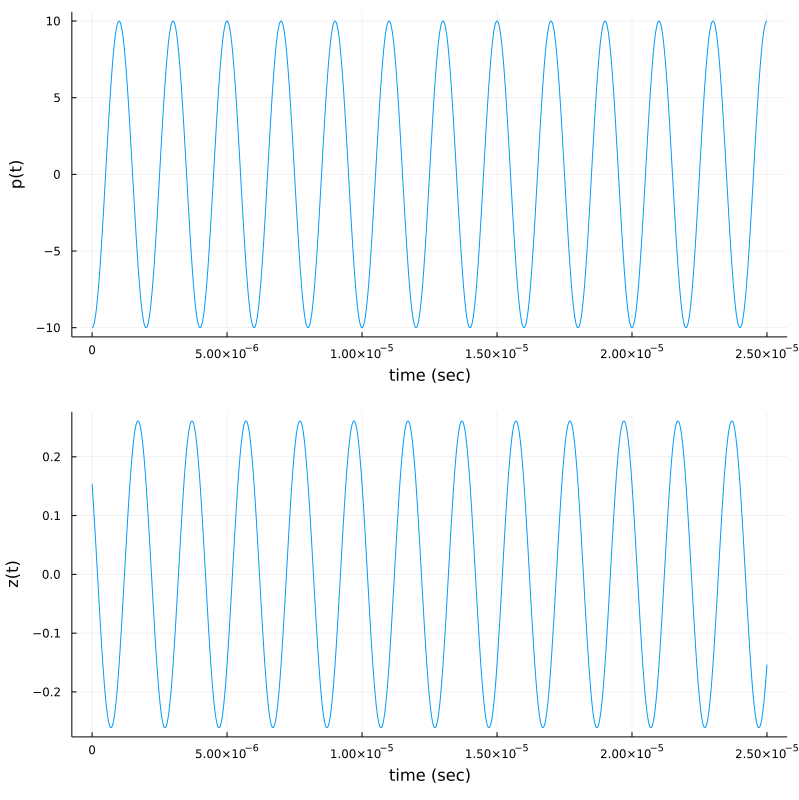
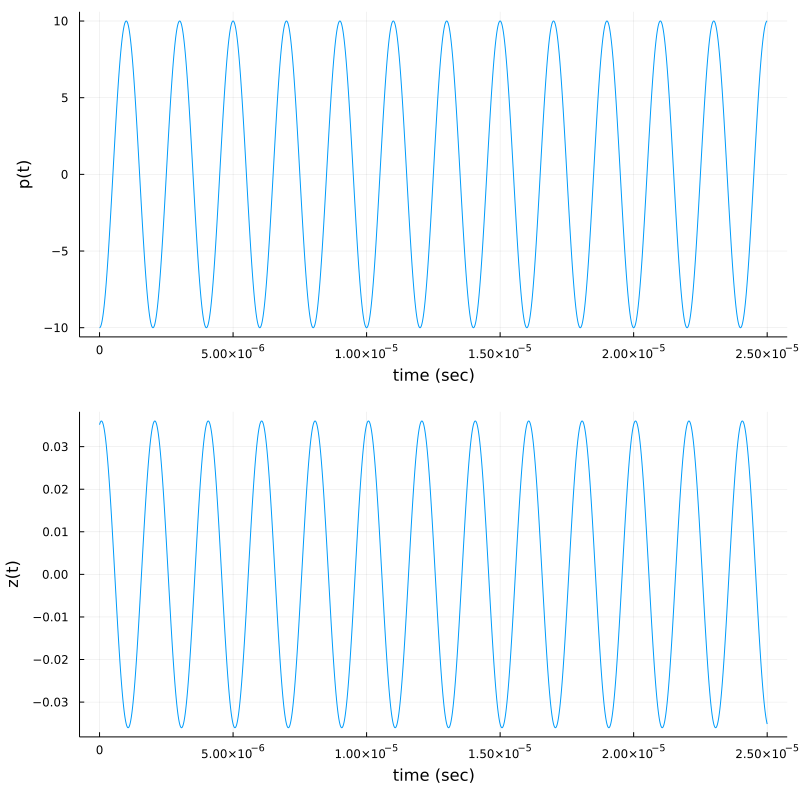
edit Doppler B

diff --git a/docs/src/modelingLTV Doppler/modelLTVDoppler.md b/docs/src/modelingLTV Doppler/modelLTVDoppler.md
@@ -25,7 +25,7 @@ s = 5.0e-08c
 𝐯 = [1.0, 0.0]  
 tₚ = 1.0e-06
 𝐩ₛ(t) = [0.18e-06c,0.0] .+ s.*𝐯.*t
-𝐩ᵣ = [0.25e-06c,0.0]
+𝐩ᵣ = [5.25e-06c,0.0]
 f = 5e05
 p(t) = 10cos(2π*f*(t-tₚ))
 q = LTVsourceO(𝐩ₛ, p)
